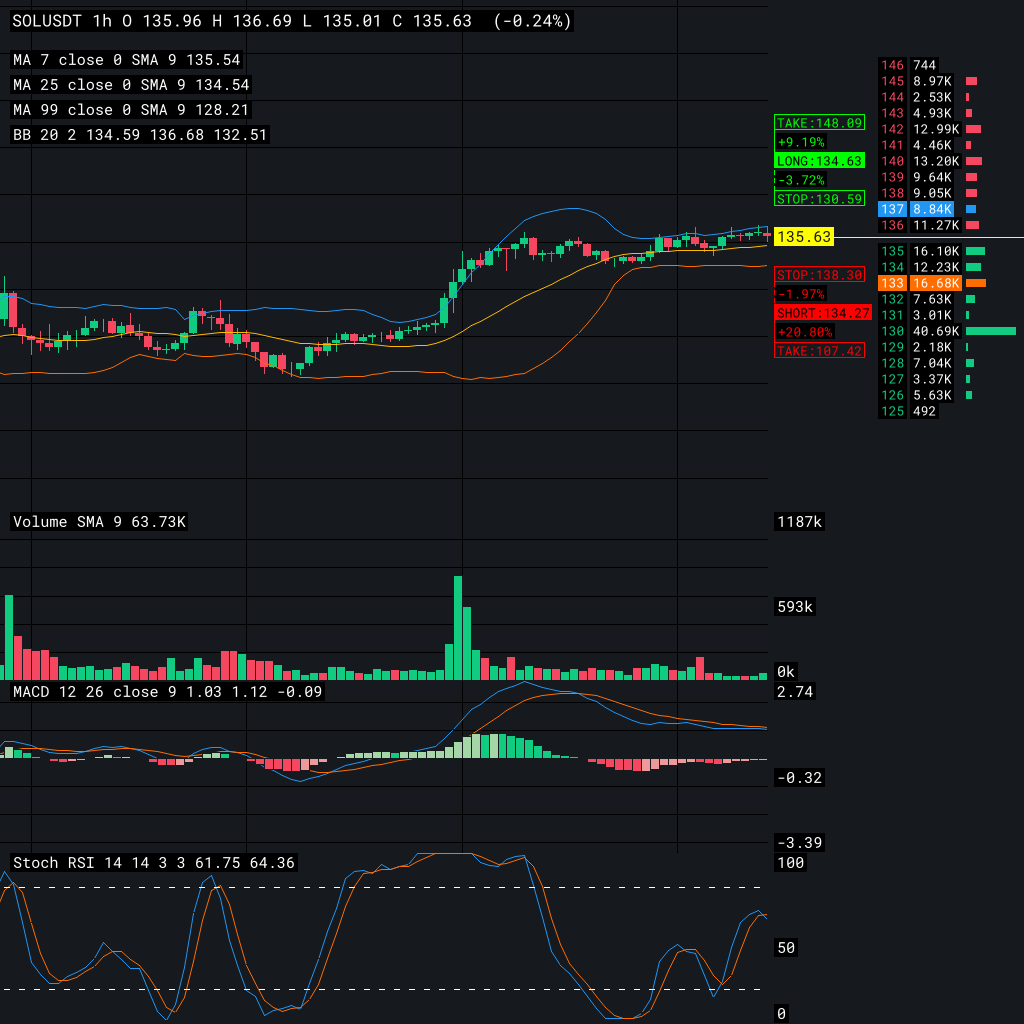
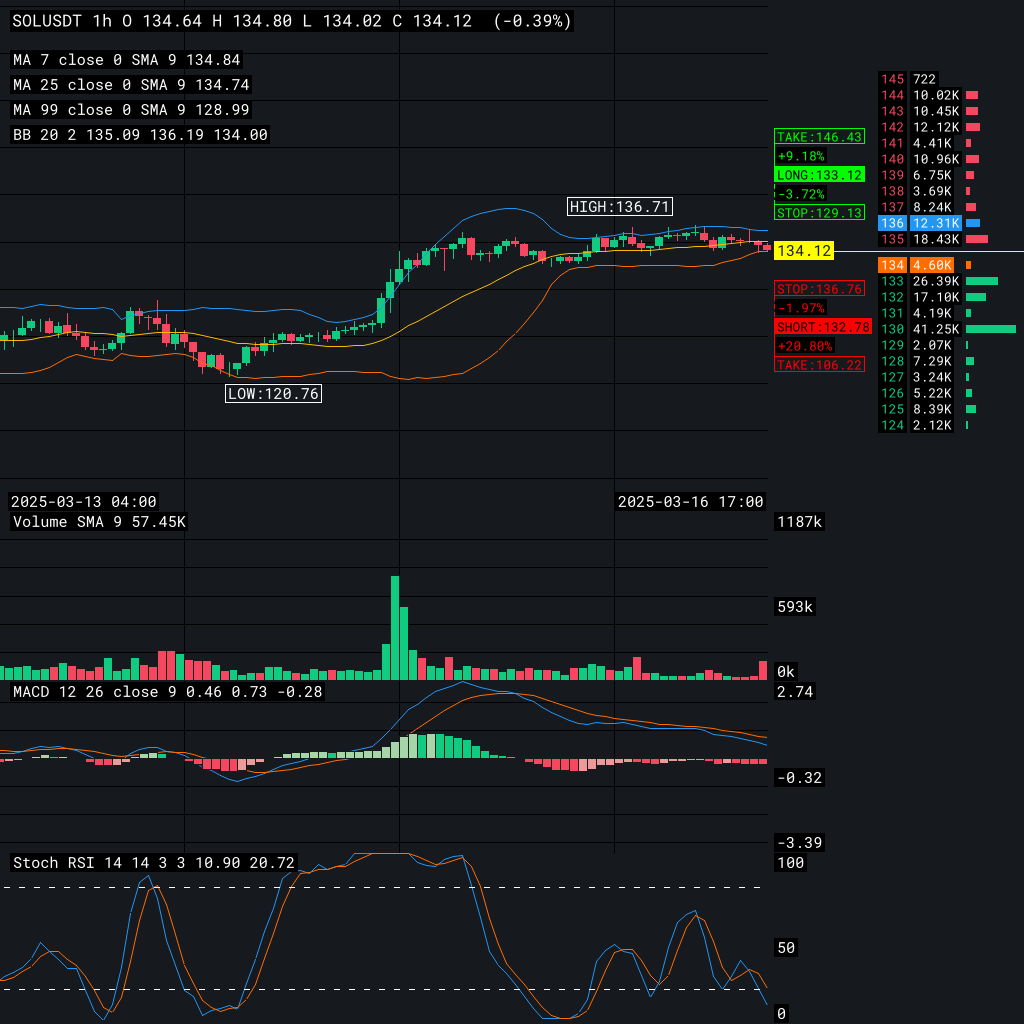
feat working high, low

diff --git a/feeder/src/charts/candle.rs b/feeder/src/charts/candle.rs
@@ -1,13 +1,16 @@
+use super::helpers::get_visible_range_and_data;
 use super::helpers::parse_kline_time;
 use super::painters::*;
 use crate::charts::png::encode_png;
 use ab_glyph::FontArc;
 use ab_glyph::PxScale;
+use chrono::DateTime;
 use chrono_tz::Tz;
 use common::Kline;
 use common::LongShortSignal;
 use common::OrderBook;
 use image::{ImageBuffer, Rgb};
+use imageproc::drawing::text_size;
 use plotters::prelude::*;
 use std::collections::HashMap;
 use std::error::Error;
@@ -191,7 +194,7 @@ impl Chart {
         if self.past_candle_data.is_none() {
             return Err("Candle data set is required".into());
         };
-
+    
         let font_data = self
             .font_data
             .as_ref()
@@ -199,43 +202,42 @@ impl Chart {
             .clone();
         let font = FontArc::try_from_vec(font_data)?;
         let timezone = &self.timezone;
-
+    
         // Combine past_candle_data and predicted_candle into all_candle_data
         let mut all_candle_data = self.past_candle_data.clone().unwrap();
-        let last_candle =self.past_candle_data.iter().last().expect("No data").last().expect("No data");
-        let last_past_time =  if let Some(predicted_candles) = self.predicted_candle.clone() {
+        let last_candle = self.past_candle_data.iter().last().expect("No data").last().expect("No data");
+        let last_past_time = if let Some(predicted_candles) = self.predicted_candle.clone() {
             all_candle_data.extend(predicted_candles);
-
             all_candle_data
-            .last()
-            .map(|kline| kline.open_time)
-            .ok_or("No past candle data available")?
+                .last()
+                .map(|kline| kline.open_time)
+                .ok_or("No past candle data available")?
         } else {
             last_candle.close_time
         };
         let current_price = last_candle.close_price.parse::<f64>().expect("No data");
-
+    
         let past_data = self.past_candle_data.as_deref().unwrap_or(&[]);
-
+    
         let total_candles = all_candle_data.len();
         let total_width = total_candles as u32 * 10;
         let root_width = 1024;
         let root_height = 1024;
-
+    
         let chart_width = 768;
-        let margin_right = 1024 - chart_width;
+        let margin_right = root_width - chart_width;
         let right_offset_x = chart_width;
-
+    
         let plot_width = total_width.max(root_width);
         let bar: (u32, u32) = (plot_width, root_height);
         let mut buffer = vec![0; (plot_width * root_height * 3) as usize];
-
+    
         let first_time = parse_kline_time(all_candle_data[0].open_time, timezone);
         let last_time = parse_kline_time(
             all_candle_data[all_candle_data.len() - 1].open_time,
             timezone,
         );
-
+    
         let prices: Vec<f32> = all_candle_data
             .iter()
             .flat_map(|k| {
@@ -249,14 +251,23 @@ impl Chart {
             .collect();
         let min_price = prices.iter().fold(f32::INFINITY, |a, &b| a.min(b));
         let max_price = prices.iter().fold(f32::NEG_INFINITY, |a, &b| a.max(b));
-
+    
         let mut lower_bound = 0.0;
         let mut upper_bound = 0.0;
+    
+        // Variables to store lowest and highest prices and their timestamps
+        let mut lowest_price: f32 = f32::INFINITY;
+        let mut highest_price: f32 = f32::NEG_INFINITY;
+        let mut lowest_price_time: i64 = 0;
+        let mut highest_price_time: i64 = 0;
+        let mut start_visible_time: DateTime<Tz> = first_time;
+        let mut end_visible_time: DateTime<Tz> = last_time;
+    
         // Scope for drawing operations
         {
             let mut root = BitMapBackend::with_buffer(&mut buffer, bar).into_drawing_area();
-
-             let (  new_lower_bound, new_upper_bound) = draw_chart(
+    
+            let (new_lower_bound, new_upper_bound) = draw_chart(
                 &mut root,
                 &all_candle_data,
                 past_data,
@@ -273,30 +284,150 @@ impl Chart {
             )?;
             lower_bound = new_lower_bound;
             upper_bound = new_upper_bound;
-
+    
             let mut top_chart = ChartBuilder::on(&root.split_vertically((50).percent()).0)
                 .margin_right(margin_right)
                 .build_cartesian_2d(first_time..last_time, min_price * 0.95..max_price * 1.05)?;
-
-         if let Some(ref past_signals) = self.past_signals  {
-            draw_past_signals(&mut top_chart, timezone, past_signals)?;
-         }
+    
+            // Step 1: Find lowest and highest prices in the visible range
+            let (first_visible_time, last_visible_time, visible_data) = get_visible_range_and_data(
+                &all_candle_data,
+                timezone,
+                9, // candle_width (assumed as 10 based on total_width calculation)
+                chart_width, // Use chart_width instead of plot_width * 2 to match visible area
+            )?;
+            start_visible_time = first_visible_time;
+            end_visible_time = last_visible_time;
+    
+            for kline in visible_data.iter() {
+                let low = kline.low_price.parse::<f32>().unwrap();
+                let high = kline.high_price.parse::<f32>().unwrap();
+    
+                if low < lowest_price {
+                    lowest_price = low;
+                    lowest_price_time = kline.open_time; // Use open_time as the reference
+                }
+                if high > highest_price {
+                    highest_price = high;
+                    highest_price_time = kline.open_time;
+                }
+            }
+    
+            if let Some(ref past_signals) = self.past_signals {
+                draw_past_signals(&mut top_chart, timezone, past_signals)?;
+            }
         } // `root` goes out of scope here, ending the borrow of `buffer`
- 
+    
         // Create imgbuf after root is dropped
         let mut imgbuf: ImageBuffer<Rgb<u8>, Vec<u8>> = ImageBuffer::new(plot_width, root_height);
         imgbuf.copy_from_slice(buffer.as_slice());
+    
+        // Step 2: Draw hallow labels for lowest and highest prices
+        // Map timestamps to x-coordinates using visible range
+        let visible_time_range = end_visible_time.timestamp() as f64 - start_visible_time.timestamp() as f64;
+        let chart_width_f32 = chart_width as f64;
+    
+        let lowest_x = if visible_time_range != 0.0 {
+            ((parse_kline_time(lowest_price_time, timezone).timestamp() as f64 - start_visible_time.timestamp() as f64) / visible_time_range * chart_width_f32) as f32
+        } else {
+            0.0
+        };
+        let highest_x = if visible_time_range != 0.0 {
+            ((parse_kline_time(highest_price_time, timezone).timestamp() as f64 - start_visible_time.timestamp() as f64) / visible_time_range * chart_width_f32) as f32
+        } else {
+            0.0
+        };
+
+        // Prevent overdraw
+        let high_low_width = 128.0;
+        let highest_x= if highest_x + high_low_width < chart_width as f32 { highest_x } else { highest_x - high_low_width };
+        let highest_x= if highest_x > 0.0 { highest_x } else { highest_x + high_low_width };
+        let lowest_x= if lowest_x + high_low_width < chart_width as f32 { lowest_x } else { lowest_x - high_low_width };
+        let lowest_x= if lowest_x > 0.0 { lowest_x } else { lowest_x + high_low_width };
+    
+        // Map prices to y-coordinates
+        let price_range = (max_price * 1.05 - min_price * 0.95) as f64;
+        let chart_height = (root_height as f32 * 0.5) as f64; // Top chart is 50% of height
+        let lowest_y = if price_range != 0.0 {
+            (chart_height * (1.0 - ((lowest_price - min_price * 0.95) as f64 / price_range))) as f32
+        } else {
+            chart_height as f32 / 2.0
+        };
+        let highest_y = if price_range != 0.0 {
+            (chart_height * (1.0 - ((highest_price - min_price * 0.95) as f64 / price_range))) as f32
+        } else {
+            chart_height as f32 / 2.0
+        };
 
         let crop_x = plot_width.saturating_sub(root_width);
         let mut cropped_img: ImageBuffer<Rgb<u8>, Vec<u8>> =
             image::imageops::crop_imm(&imgbuf, crop_x, 0, root_width, root_height).to_image();
+    
+        // Draw hallow labels
+        let label_scale = PxScale { x: 20.0, y: 20.0 };
+        let font_color = Rgb([255, 255, 255]);
+        let border_color = Rgb([255, 255, 255]);
+        draw_hallow_label(
+            &mut cropped_img,
+            &font,
+            &format!("LOW:{:.2}", lowest_price),
+            lowest_x,
+            lowest_y + 8.0,
+            label_scale,
+            font_color,
+            border_color,
+        )?;
 
+        draw_hallow_label(
+            &mut cropped_img,
+            &font,
+            &format!("HIGH:{:.2}", highest_price),
+            highest_x,
+            highest_y - 20.0 - 8.0,
+            label_scale,
+            font_color,
+            border_color,
+        )?;
+    
+        // Step 3 & 4: Draw time labels at the bottom left and right corners
+        let label_scale = PxScale { x: 20.0, y: 20.0 };
+        let label_color = Rgb([255, 255, 255]);
+        let background_color = Rgb([0, 0, 0]);
+        let chart_bottom_y = (root_height as f32 * 0.5) - 20.0;
+
+        // Bottom left: start_visible_time
+        let start_label = start_visible_time.format("%Y-%m-%d %H:%M").to_string();
+        draw_label(
+            &mut cropped_img,
+            &font,
+            &start_label,
+            8.0,
+            chart_bottom_y,
+            label_scale,
+            label_color,
+            background_color,
+        )?;
+    
+        // Bottom right: end_visible_time
+        let end_label = end_visible_time.format("%Y-%m-%d %H:%M").to_string();
+        let (end_label_width, _) = text_size(label_scale, &font, &end_label);
+        draw_label(
+            &mut cropped_img,
+            &font,
+            &end_label,
+            (chart_width - end_label_width  - 8) as f32,
+            chart_bottom_y,
+            label_scale,
+            label_color,
+            background_color,
+        )?;
+    
         // Add header details on the cropped image
         draw_candle_detail(&mut cropped_img, &self, &font)?;
         if self.bollinger_enabled {
             draw_bollinger_detail(&mut cropped_img, past_data, &font)?;
         }
-
+    
         if self.volume_enabled || self.macd_enabled || self.stoch_rsi_enabled {
             let num_indicators = [
                 self.volume_enabled,
@@ -306,25 +437,25 @@ impl Chart {
             .iter()
             .filter(|&&enabled| enabled)
             .count() as f32;
-
+    
             let section_height = root_height as f32 * 0.5 / num_indicators;
             let top_section_height = root_height as f32 * 0.5;
-
-            let mut current_y = top_section_height  ;
-
+    
+            let mut current_y = top_section_height;
+    
             if self.volume_enabled {
-                draw_volume_detail(&mut cropped_img, past_data, &font, current_y   )?;
-                current_y += section_height ;
+                draw_volume_detail(&mut cropped_img, past_data, &font, current_y)?;
+                current_y += section_height;
             }
             if self.macd_enabled {
-                draw_macd_detail(&mut cropped_img, past_data, &font, current_y  )?;
-                current_y += section_height ;
+                draw_macd_detail(&mut cropped_img, past_data, &font, current_y)?;
+                current_y += section_height;
             }
             if self.stoch_rsi_enabled {
-                draw_stoch_rsi_detail(&mut cropped_img, past_data, &font, current_y   )?;
+                draw_stoch_rsi_detail(&mut cropped_img, past_data, &font, current_y)?;
             }
         }
-
+    
         let price_bounding_rect = draw_axis_labels(
             &mut cropped_img,
             &font.clone(),
@@ -336,49 +467,49 @@ impl Chart {
             min_price,
             max_price,
         )?;
-
+    
         let mut bids_asks_y_map = HashMap::new();
-
+    
         // Draw order book
         if let Some(orderbook_data) = &self.orderbook_data {
-            if let Some(price_bounding_rect) = price_bounding_rect{
-            let new_bids_asks_y_map = draw_order_book(
-                &mut cropped_img,
-                &font,
-                orderbook_data,
-                min_price,
-                max_price,
-                root_width,
-                root_height,
-                right_offset_x as f32,
-                price_bounding_rect.top() as f32,
-                lower_bound,
-                upper_bound,
-                price_bounding_rect,
-            )?;
-
-            bids_asks_y_map = new_bids_asks_y_map;
- }
+            if let Some(price_bounding_rect) = price_bounding_rect {
+                let new_bids_asks_y_map = draw_order_book(
+                    &mut cropped_img,
+                    &font,
+                    orderbook_data,
+                    min_price,
+                    max_price,
+                    root_width,
+                    root_height,
+                    right_offset_x as f32,
+                    price_bounding_rect.top() as f32,
+                    lower_bound,
+                    upper_bound,
+                    price_bounding_rect,
+                )?;
+                bids_asks_y_map = new_bids_asks_y_map;
+            }
         }
-
+    
         // Draw signals if has
         if let Some(ref signals) = &self.signals {
-
-            if let Some(price_bounding_rect) = price_bounding_rect{
-            draw_signals( &mut cropped_img,
-                &font,
-                signals,
-                current_price,
-                price_bounding_rect,
-            )?;}
+            if let Some(price_bounding_rect) = price_bounding_rect {
+                draw_signals(
+                    &mut cropped_img,
+                    &font,
+                    signals,
+                    current_price,
+                    price_bounding_rect,
+                )?;
+            }
         }
-
+    
         // Draw labels if has
         draw_labels(&mut cropped_img, &font, &self, root_width, root_height)?;
-
+    
         // Draw lines if has
         draw_lines(&mut cropped_img, &self, root_width, root_height)?;
-
+    
         Ok(encode_png(&cropped_img)?)
     }
 }

diff --git a/feeder/src/charts/helpers.rs b/feeder/src/charts/helpers.rs
@@ -45,7 +45,7 @@ pub fn get_visible_range_and_data(
         return Err("No candle data available".into());
     }
 
-    let visible_candles = (final_width / candle_width) as usize;
+    let visible_candles = (final_width as f32 / candle_width as f32).ceil() as usize;
     let start_index = total_candles.saturating_sub(visible_candles);
 
     let first_visible_time = parse_kline_time(past_data[start_index].open_time, timezone);
